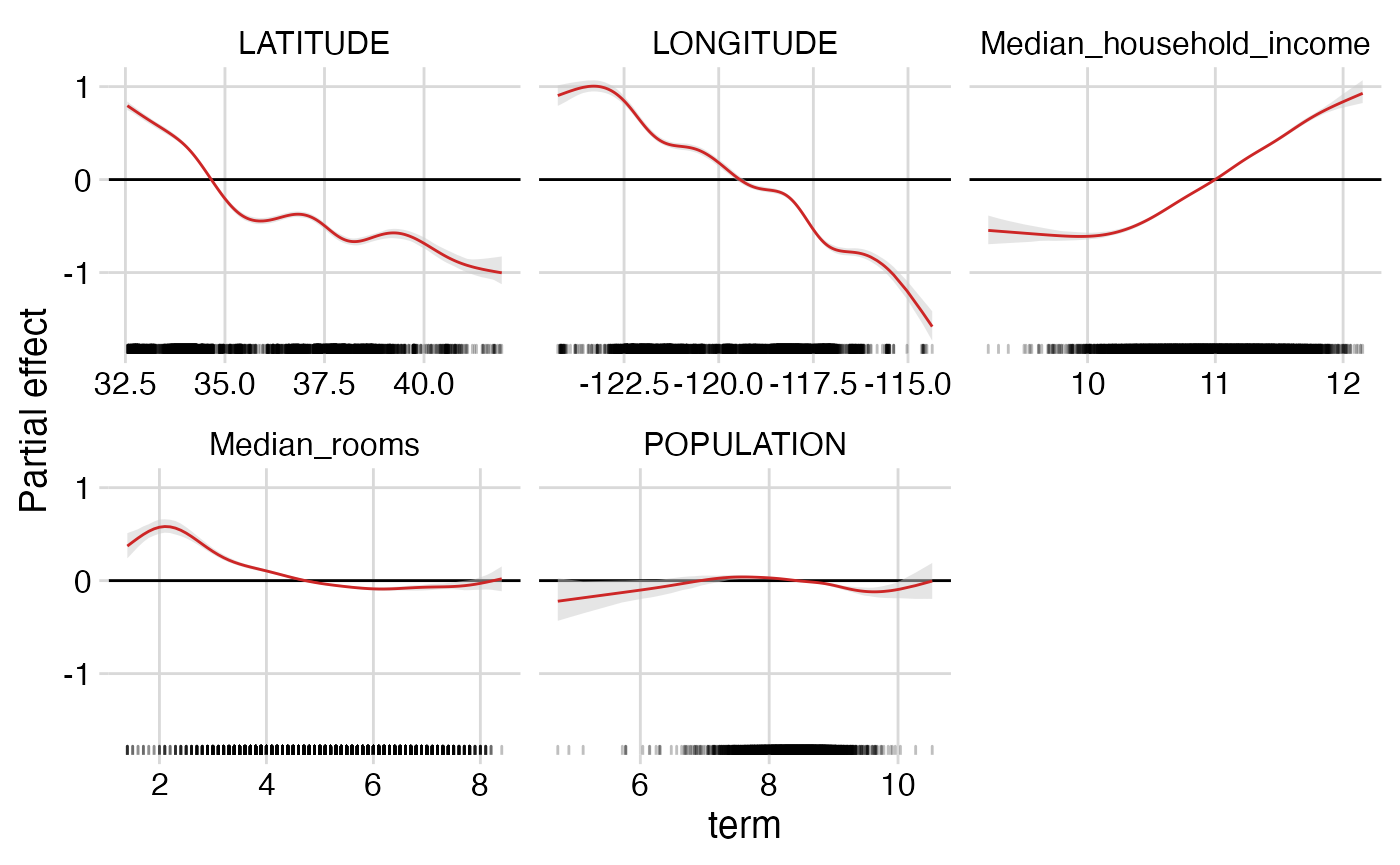
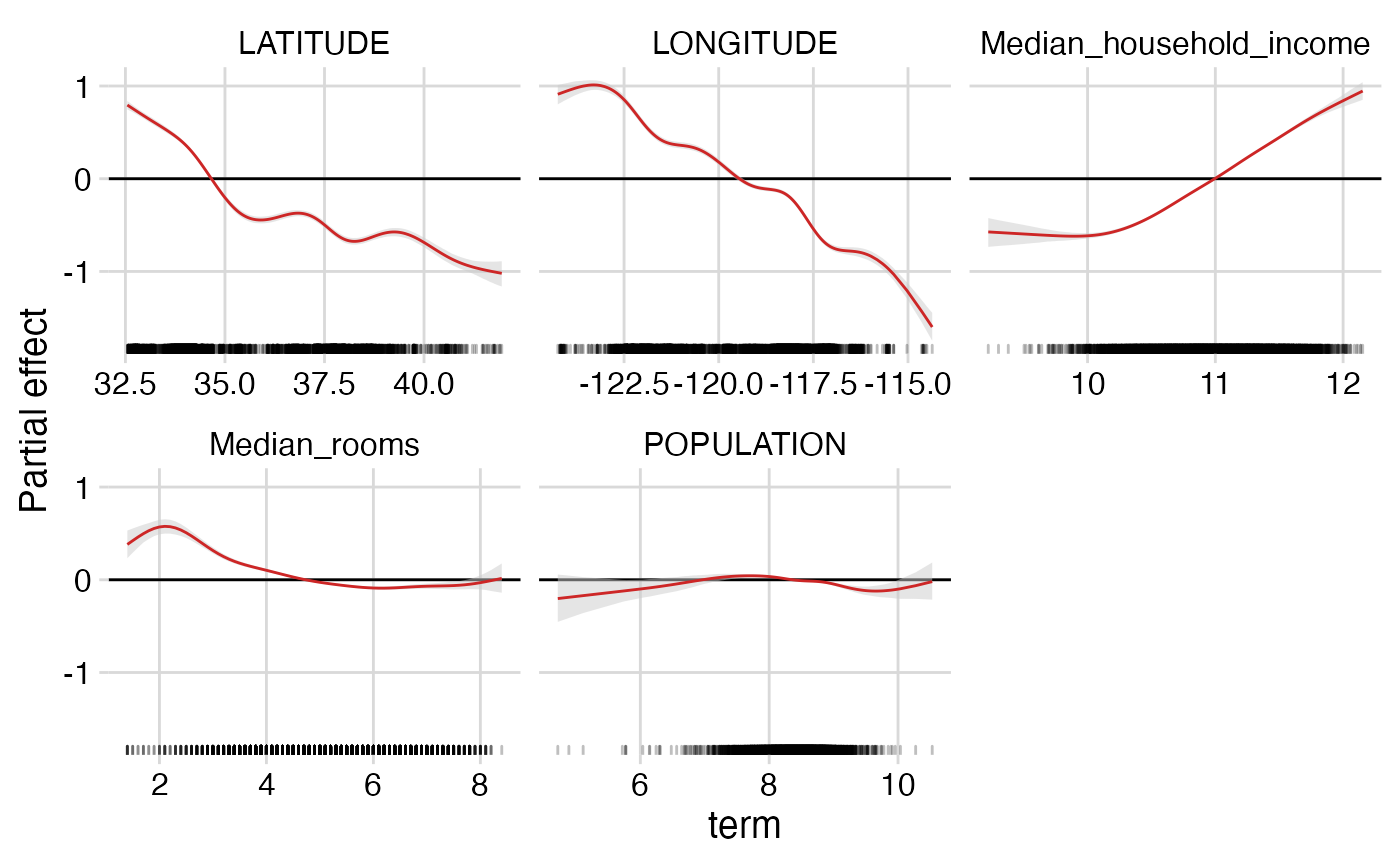
Built site for possum: 0.1@91c042e

diff --git a/articles/california-housing.html b/articles/california-housing.html
@@ -156,7 +156,9 @@
 <a href="#estimate-bayesian-nonparametric-regression-model" class="anchor"></a>Estimate Bayesian nonparametric regression model</h2>
 <div class="sourceCode" id="cb3"><pre class="downlit sourceCode r">
 <code class="sourceCode R">
-<span class="va">mybart</span> <span class="op">&lt;-</span> <span class="fu"><a href="https://rdrr.io/pkg/dbarts/man/bart.html">bart</a></span><span class="op">(</span><span class="va">x</span>, <span class="va">y</span>, ndpost<span class="op">=</span><span class="fl">100</span>, nskip<span class="op">=</span><span class="fl">100</span>, nchain <span class="op">=</span> <span class="fl">1</span><span class="op">)</span>
+<span class="fu"><a href="https://rdrr.io/r/base/Random.html">set.seed</a></span><span class="op">(</span><span class="fl">1</span><span class="op">)</span>
+
+<span class="va">mybart</span> <span class="op">&lt;-</span> <span class="fu"><a href="https://rdrr.io/pkg/dbarts/man/bart.html">bart</a></span><span class="op">(</span><span class="va">x</span>, <span class="va">y</span>, ndpost<span class="op">=</span><span class="fl">1000</span>, nskip<span class="op">=</span><span class="fl">1000</span>, nchain <span class="op">=</span> <span class="fl">1</span><span class="op">)</span>
 
 <span class="co">## Posterior and posterior mean for fitted values</span>
 <span class="va">yhat</span> <span class="op">&lt;-</span> <span class="va">mybart</span><span class="op">$</span><span class="va">yhat.train.mean</span>
@@ -167,12 +169,20 @@
 <a href="#construct-and-plot-additive-summary" class="anchor"></a>Construct and plot additive summary</h2>
 <p>First, define the summary. Here, we look at the individual additive effects of each of the five covariates.</p>
 <div class="sourceCode" id="cb4"><pre class="downlit sourceCode r">
-<code class="sourceCode R">
-<span class="va">summaryform</span> <span class="op">&lt;-</span> <span class="va">yhat</span> <span class="op">~</span> <span class="fu"><a href="https://rdrr.io/pkg/mgcv/man/s.html">s</a></span><span class="op">(</span><span class="va">Median_household_income</span><span class="op">)</span> <span class="op">+</span> <span class="fu"><a href="https://rdrr.io/pkg/mgcv/man/s.html">s</a></span><span class="op">(</span><span class="va">POPULATION</span><span class="op">)</span> <span class="op">+</span>
+<code class="sourceCode R"><span class="va">summaryform</span> <span class="op">&lt;-</span> <span class="va">yhat</span> <span class="op">~</span> <span class="fu"><a href="https://rdrr.io/pkg/mgcv/man/s.html">s</a></span><span class="op">(</span><span class="va">Median_household_income</span><span class="op">)</span> <span class="op">+</span> <span class="fu"><a href="https://rdrr.io/pkg/mgcv/man/s.html">s</a></span><span class="op">(</span><span class="va">POPULATION</span><span class="op">)</span> <span class="op">+</span>
   <span class="fu"><a href="https://rdrr.io/pkg/mgcv/man/s.html">s</a></span><span class="op">(</span><span class="va">Median_rooms</span><span class="op">)</span> <span class="op">+</span> <span class="fu"><a href="https://rdrr.io/pkg/mgcv/man/s.html">s</a></span><span class="op">(</span><span class="va">LONGITUDE</span><span class="op">)</span> <span class="op">+</span> <span class="fu"><a href="https://rdrr.io/pkg/mgcv/man/s.html">s</a></span><span class="op">(</span><span class="va">LATITUDE</span><span class="op">)</span></code></pre></div>
 <p>Now, we estimate and plot the summary.</p>
 <div class="sourceCode" id="cb5"><pre class="downlit sourceCode r">
-<code class="sourceCode R"><span class="va">mypossum</span> <span class="op">&lt;-</span> <span class="fu"><a href="../reference/additive_summary.html">additive_summary</a></span><span class="op">(</span><span class="va">summaryform</span>, <span class="va">yhatSamples</span>, <span class="va">yhat</span>, <span class="va">califDf</span>, verbose<span class="op">=</span><span class="cn">TRUE</span><span class="op">)</span>
+<code class="sourceCode R"><span class="co">## Check the dimensions of posterior of yhat (matrix) and the</span>
+<span class="co">## posterior mean (vector)</span>
+
+<span class="fu"><a href="https://rdrr.io/r/base/length.html">length</a></span><span class="op">(</span><span class="va">yhat</span><span class="op">)</span>
+<span class="co">#&gt; [1] 7481</span>
+<span class="fu"><a href="https://rdrr.io/r/base/dim.html">dim</a></span><span class="op">(</span><span class="va">yhatSamples</span><span class="op">)</span> <span class="co">#NOTE: Each *column* is a posterior draw</span>
+<span class="co">#&gt; [1] 7481 1000</span>
+
+
+<span class="va">mypossum</span> <span class="op">&lt;-</span> <span class="fu"><a href="../reference/additive_summary.html">additive_summary</a></span><span class="op">(</span><span class="va">summaryform</span>, <span class="va">yhatSamples</span>, <span class="va">yhat</span>, <span class="va">califDf</span>, verbose<span class="op">=</span><span class="cn">TRUE</span><span class="op">)</span>
 <span class="co">#&gt; Calculating point estimate for the summary...</span>
 <span class="co">#&gt; Extracting terms of summary...</span>
 <span class="co">#&gt; Looping through factors...</span>

diff --git a/reference/get_additive_summary_Rsq.html b/reference/get_additive_summary_Rsq.html
@@ -40,7 +40,8 @@
 
 
 <meta property="og:title" content="Return the posterior summary R^2 diagnostic — get_additive_summary_Rsq" />
-<meta property="og:description" content="Returns posterior samples of the R^2 diagnostic for psoterior summaries" />
+<meta property="og:description" content="Returns posterior samples of the R^2 diagnostic for psoterior
+summaries" />
 
 
 
@@ -121,7 +122,8 @@
     </div>
 
     <div class="ref-description">
-    <p>Returns posterior samples of the R^2 diagnostic for psoterior summaries</p>
+    <p>Returns posterior samples of the R^2 diagnostic for psoterior
+summaries</p>
     </div>
 
     <pre class="usage"><span class='fu'>get_additive_summary_Rsq</span><span class='op'>(</span><span class='va'>possum_fit</span><span class='op'>)</span></pre>
@@ -131,7 +133,8 @@
     <colgroup><col class="name" /><col class="desc" /></colgroup>
     <tr>
       <th>possum_fit</th>
-      <td><p>A posterior summary object (e.g. returned by additive_summary)</p></td>
+      <td><p>A posterior summary object (e.g. returned by
+additive_summary)</p></td>
     </tr>
     </table>
 

diff --git a/reference/index.html b/reference/index.html
@@ -140,12 +140,6 @@
       <tr>
         
         <td>
-          <p><code><a href="additiveSummary1.html">additiveSummary1()</a></code> </p>
-        </td>
-        <td><p>Additive summary</p></td>
-      </tr><tr>
-        
-        <td>
           <p><code><a href="additive_summary.html">additive_summary()</a></code> </p>
         </td>
         <td><p>additive_summary</p></td>
@@ -173,12 +167,6 @@
           <p><code><a href="difference_posterior.html">difference_posterior()</a></code> </p>
         </td>
         <td><p>Title</p></td>
-      </tr><tr>
-        
-        <td>
-          <p><code><a href="gamProjectionFun.html">gamProjectionFun()</a></code> </p>
-        </td>
-        <td><p>Projection</p></td>
       </tr><tr>
         
         <td>

diff --git a/reference/additive_summary.html b/reference/additive_summary.html
@@ -135,6 +135,16 @@
   verbose <span class='op'>=</span> <span class='cn'>FALSE</span>
 <span class='op'>)</span></pre>
 
+    <h2 class="hasAnchor" id="arguments"><a class="anchor" href="#arguments"></a>Arguments</h2>
+    <table class="ref-arguments">
+    <colgroup><col class="name" /><col class="desc" /></colgroup>
+    <tr>
+      <th>summaryCall</th>
+      <td><p>A gam fomula for the additive summary to be
+computed.  Should be in the form of fhat ~ s(x1) + s(x2) + ....
+See ?mgcv::formula.gam</p></td>
+    </tr>
+    </table>
 
     <h2 class="hasAnchor" id="value"><a class="anchor" href="#value"></a>Value</h2>
 
